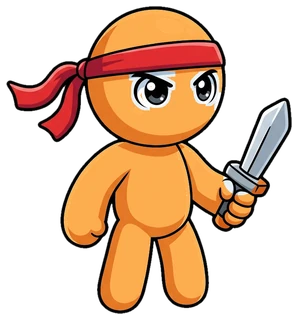
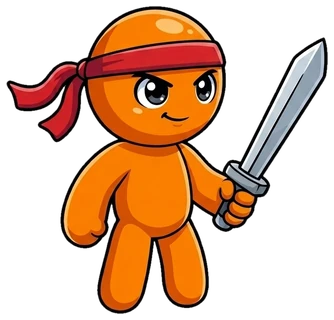
Build 7: Gemini 주인공 그림 확정 적용
Claude-Session: https://claude.ai/code/session_01TAGw7xMGQHjxVZsWyfjSay

diff --git a/index.html b/index.html
@@ -72,7 +72,7 @@ h2{margin:0 0 14px;font-size:clamp(30px,9vw,48px);color:#ffd23f;text-shadow:0 3p
 
 <script>
 'use strict';
-const BUILD = 6;
+const BUILD = 7;
 const BOSS_INTERVAL = 180;      // 보스 등장 간격(초)
 const WAVE_INTERVAL = 60;       // 대규모 몰이 이벤트 간격(초)
 const MAX_ENEMIES = 220;
@@ -1340,7 +1340,7 @@ function drawStick(p) {
     const sq = p.moving ? 1 + Math.abs(Math.cos(p.walk)) * 0.04 : 1 + Math.sin(G.t * 3) * 0.015;
     ctx.scale(2 - sq, sq);
     if (blink) ctx.globalAlpha = 0.35;
-    ctx.drawImage(img, -w / 2, -h - bob, w, h);
+    ctx.drawImage(img, -w * 0.42, -h - bob, w, h); // 몸 중심이 발 위에 오도록 (칼 쪽이 더 넓음)
     ctx.restore(); ctx.restore();
     return;
   }

diff --git a/README.md b/README.md
@@ -2,12 +2,16 @@
 
 막대 영웅 서바이벌 게임 — 아빠와 아들이 함께 만드는 HTML5 게임.
 
-- **현재 빌드: Build 6** (화면 오른쪽 아래에도 표시)
+- **현재 빌드: Build 7** (화면 오른쪽 아래에도 표시)
 - 플레이: https://leetiger12a-spec.github.io/Stickhero/ (GitHub Pages를 켠 뒤)
 
 ## 조작
 - 📱 폰: 화면 아무 곳이나 끌면 가상 조이스틱으로 이동, 공격은 자동
 - 💻 PC: WASD / 방향키 이동, P·Esc 일시정지, 레벨업 카드는 1·2·3 키
+
+## Build 7 내용 — 주인공 확정
+- Gemini로 완성한 주인공(주황 몸 · 빨간 머리띠 · 긴 칼 · 입) 적용. 원본은 `art/hero_src.png`
+- 그림 내용 수정은 Gemini에서만, 이쪽은 배경 제거·잘라내기·크기 조정·webp 변환만 함
 
 ## Build 6 내용 — 첫 그림 적용
 - 주인공을 Gemini 그림(주황 몸 + 빨간 머리띠 + 칼)으로 교체: 걸을 때 통통, 도끼질 때 몸 기울이기, 맞으면 깜빡임
